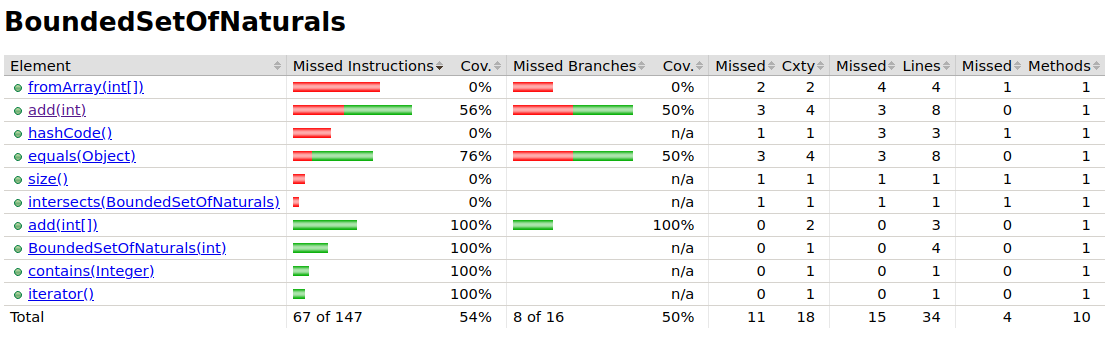
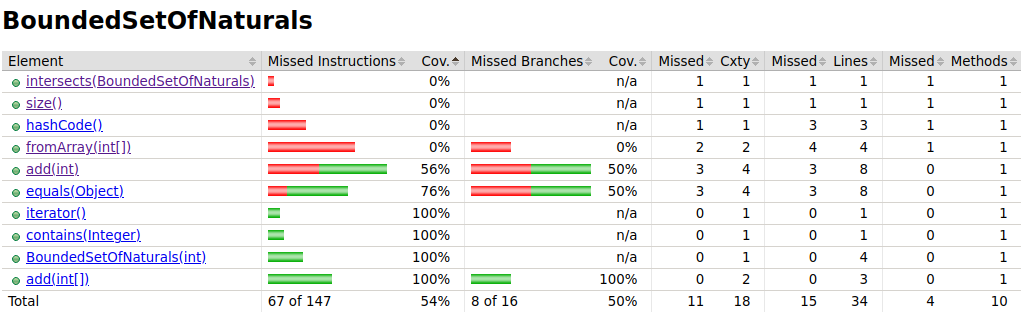
lab1 done

diff --git a/lab1/lab1_2euromillions/tqs_labs_euromillion_unit/src/test/java/tqs/sets/BoundedSetOfNaturalsTest.java b/lab1/lab1_2euromillions/tqs_labs_euromillion_unit/src/test/java/tqs/sets/BoundedSetOfNaturalsTest.java
@@ -35,25 +35,45 @@ class BoundedSetOfNaturalsTest {
 
     @Test
     public void testAddElement() {
-
         setA.add(99);
         assertTrue(setA.contains(99), "add: added element not found in set.");
         assertEquals(1, setA.size());
+    }
 
-        // must fail with exception (reached max size)
-        assertThrows(IllegalArgumentException.class, () -> setB.add(1));
-
-        // must fail with exception (trying to insert existent value)
+    @Test
+    @DisplayName("Adding an element into a set that already contains it does throw an IllegalArgumentException.")
+    void testAddExistingElement() {
         setC.add(1);
         assertThrows(IllegalArgumentException.class, () -> setC.add(1));
     }
 
     @Test
+    @DisplayName("Adding a element into a maxed out set does throw an IllegalArgumentException.")
+    void testAddElementFullSet() {
+        assertThrows(IllegalArgumentException.class, () -> setB.add(1));
+    }
+
+    @Test
+    @DisplayName("Adding into a set an array with unnatural values does throw an IllegalArgumentException.")
     public void testAddFromBadArray() {
         int[] elems = new int[]{10, -20, -30};
 
         // must fail with exception (-20 and -30 are not valid for neither numbers nor stars)
         assertThrows(IllegalArgumentException.class, () -> setC.add(elems));
+    }
+
+    @Test
+    @DisplayName("The intersection() method between disjoint sets returns false.")
+    void testIntersectDisjointSets() {
+        setA = BoundedSetOfNaturals.fromArray(new int[]{1});
+        assertFalse(setA.intersects(setB));
+    }
+
+    @Test
+    @DisplayName("The intersection() method between overlapping sets returns true.")
+    void testName() {
+        setA = BoundedSetOfNaturals.fromArray(new int[]{10});
+        assertTrue(setA.intersects(setB));
     }
 
 

diff --git a/lab1/lab1_2euromillions/tqs_labs_euromillion_unit/src/main/java/tqs/sets/BoundedSetOfNaturals.java b/lab1/lab1_2euromillions/tqs_labs_euromillion_unit/src/main/java/tqs/sets/BoundedSetOfNaturals.java
@@ -1,8 +1,6 @@
 package tqs.sets;
 
-import java.util.ArrayList;
-import java.util.Iterator;
-import java.util.Objects;
+import java.util.*;
 
 /**
  * offers a bounded set data structure, thus complying with:
@@ -64,8 +62,15 @@ public class BoundedSetOfNaturals implements Iterable<Integer> {
     }
 
 
-    //TODO implement the intersect logic
+    // DONE implement the intersect logic
     public boolean intersects(BoundedSetOfNaturals subset) {
+        // there is an intersection if there is one common element
+        Map<Integer, Integer> elementsSet1 = new HashMap<>();
+        for (int i=0; i < collection.size(); i++)
+            elementsSet1.put(collection.get(i), i);
+        for (Integer item : subset.collection)
+            if (elementsSet1.containsKey(item))
+                return true;
         return false;
     }
 

diff --git a/README.md b/README.md
@@ -5,7 +5,7 @@ Miguel Belchior Figueiredo - 108287
 
 ### Lab 1
 #### 2.c)
-[Jacoco analysis](https://www.baeldung.com/jacoco)
+- [Jacoco analysis](https://www.baeldung.com/jacoco)
 - **Assess the coverage level in project “Euromillions-play”.** -  As classes que oferecem menos coverage são as seguintes (por ordem crescente de coverage):
   1. DemoMain - não foram feitos testes para esta classe;
   2. CuponEuromillions  - nesta classe os métodos **countDips()** e **format** não são covered pelos testes existentes, resultando em uma cobertura de 0% nestes métodos o que baixa a coverage da classe. 
@@ -14,10 +14,7 @@ Miguel Belchior Figueiredo - 108287
      ![BoundedSetOfNaturalsAddCoverage](./images/BoundedSetOfNaturalsAddCoverage_before.png) ![BoundedSetOfNaturalsSizeCoverage](./images/BoundedSetOfNaturalsSizeCoverage_before.png)
      ![BoundedSetOfNaturalsFromArrayCoverage](./images/BoundedSetOfNaturalsFromArrayCoverage_before.png) ![BoundedSetOfNaturalsIntersectsCoverage](./images/BoundedSetOfNaturalsIntersectsCoverage_before.png) 
 
-  
-
-
-
-#### 2.d) ESCREVER CONCLUSÃO 2.d)
-Bounded set of naturals - 54% -> 86%
-add(int) - 56% - 100%
+#### 2.d) 
+![BoundedSetOfNaturalsCoverage](./images/BoundedSetOfNaturalsCoverage_after.png)
+- Todos os métodos previamente mencionados têm agora uma coverage de 100%.
+- É de focar que a coverage de uma classe não tem de ser sempre 100% não fazendo sentido fazer testes para métodos equals e hashcode que normalmente até são gerados **(observação do professor na aula prática)**  
